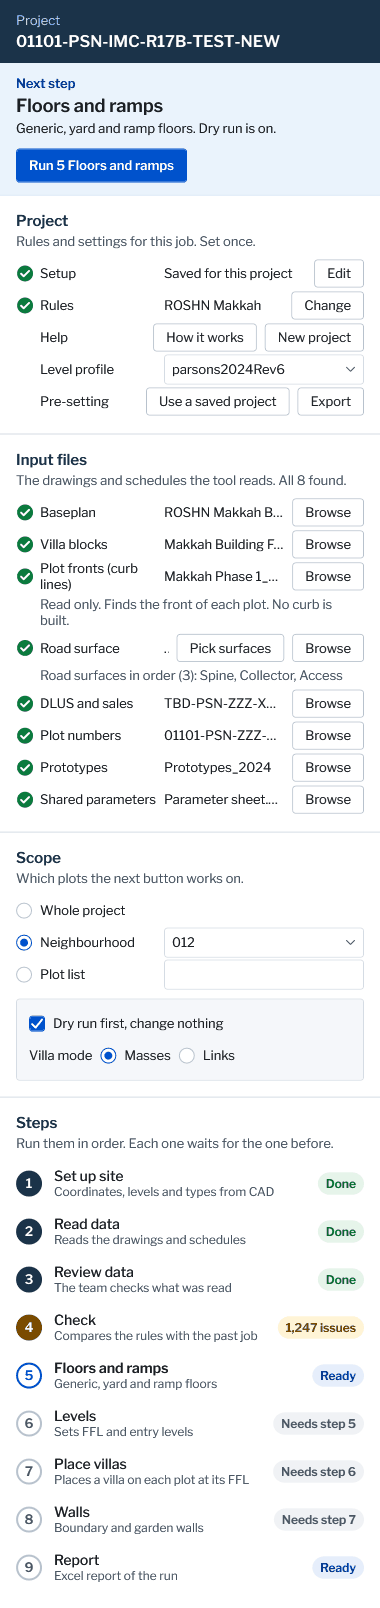
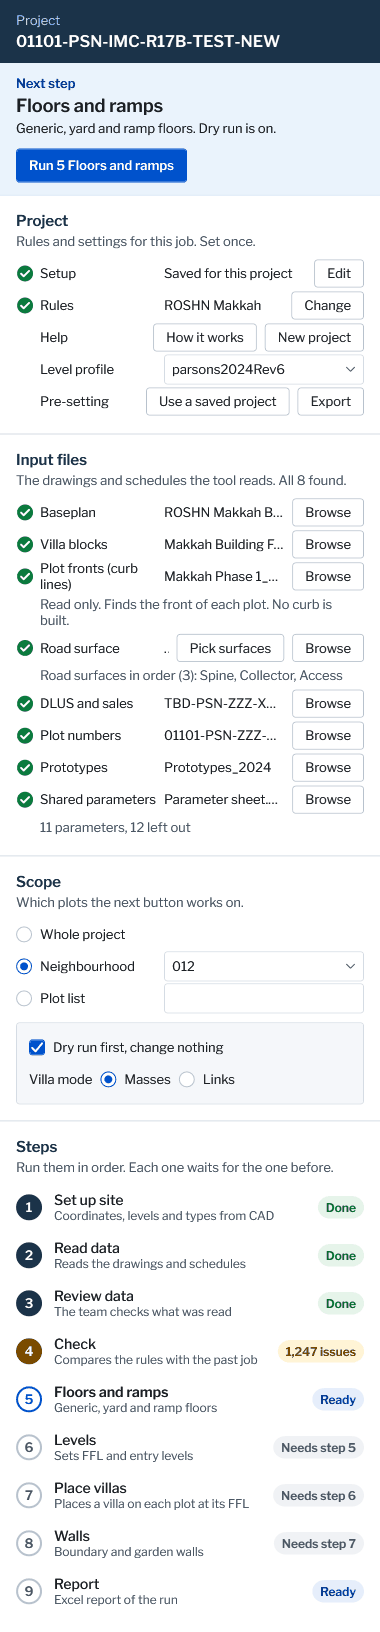
PARAM-3NOV-D: rule id helper in Common, the sample pane shows the counts line

diff --git a/dotnet/SiteAdaptation.AddIn/Pane/PaneViewModel.cs b/dotnet/SiteAdaptation.AddIn/Pane/PaneViewModel.cs
@@ -544,18 +544,12 @@ namespace SiteAdaptation.AddIn.Pane
             row.Hint = read?.Line ?? string.Empty;
             string config = string.IsNullOrEmpty(chosen) ? path : probe.ConfigSheet(document.Settings.ConfigFile);
             bool other = row.Found && !string.IsNullOrEmpty(chosen) && !string.IsNullOrEmpty(config) && !string.Equals(Path.GetFullPath(chosen), Path.GetFullPath(config), StringComparison.OrdinalIgnoreCase);
-            string note = read?.Refused ?? (other ? SetUpTexts.OtherSheet(Path.GetFileName(chosen), Path.GetFileName(config)) : read?.Warning);
-            row.ShowNote(NoRuleId(note));
+            string note = read?.Refused ?? (other ? Common.SetUp.SetUpTexts.OtherSheet(Path.GetFileName(chosen), Path.GetFileName(config)) : read?.Warning);
+            row.ShowNote(Common.SetUp.SetUpTexts.NoRuleId(note));
             if (read?.Refused != null)
             {
                 row.Show(true, false, row.FileName, row.ToolTip);
             }
-        }
-
-        // The messages of the sheet end on a rule id for the log, a window shows no code name
-        private static string NoRuleId(string text)
-        {
-            return text == null ? string.Empty : System.Text.RegularExpressions.Regex.Replace(text, @"\s*\(R\d+\)$", string.Empty);
         }
 
         private void RefreshRow(FileRowViewModel row, string[] paths)

diff --git a/dotnet/SiteAdaptation.Common/SetUp/SetUpTexts.cs b/dotnet/SiteAdaptation.Common/SetUp/SetUpTexts.cs
@@ -95,6 +95,12 @@ namespace SiteAdaptation.Common.SetUp
             return string.Join(" ", taken.Select(each => "Removes the " + each.Key + " binding of " + string.Join(", ", each.Value) + "."));
         }
 
+        // R506. The messages of the sheet end on a rule id for the log, a window shows no code name
+        public static string NoRuleId(string text)
+        {
+            return text == null ? string.Empty : System.Text.RegularExpressions.Regex.Replace(text, @"\s*\(R\d+\)$", string.Empty);
+        }
+
         // R507. A sheet from before the rule, it would bind the row on Floors again
         public static string VillaRowOnFloors(string sheet, string name)
         {

diff --git a/dotnet/SiteAdaptation.UiShots/Shots.cs b/dotnet/SiteAdaptation.UiShots/Shots.cs
@@ -612,7 +612,7 @@ namespace SiteAdaptation.UiShots
 
         public string ConfigSheet(string configFile)
         {
-            return "Parameter sheet.xlsx";
+            return null;
         }
 
         public SheetRead ReadSheet(string path)

diff --git a/docs/design/14-ui-labels.md b/docs/design/14-ui-labels.md
@@ -698,6 +698,3 @@ The loader of every button of Lane C DEMO-FIX (R444), a DRAFT with no board. It 
 - `Running outside Revit. The pane shows the step when it ends.` CHOSEN, the line while 2 Read data or 4 Check runs in the worker (R375)
 - `Elapsed <n>` CHOSEN, the clock in minutes and seconds
 - `Hide` CHOSEN, shown only while the step runs outside Revit, it closes the loader and changes nothing in the run
-- `<n> parameters, <n> left out` CHOSEN, Bader's words, the line under the pane row Shared parameters (R506)
-- `Removes the <category> binding of <names>.` CHOSEN, in the row Shared parameters of Set up site on a model set up before R507 (R508)
-- `<sheet> binds <name> on Floors. Shared parameters are for the villa links only, so set its Category to RVT Links in that file` CHOSEN, a stop of Set up site and the note under the pane row (R507)
